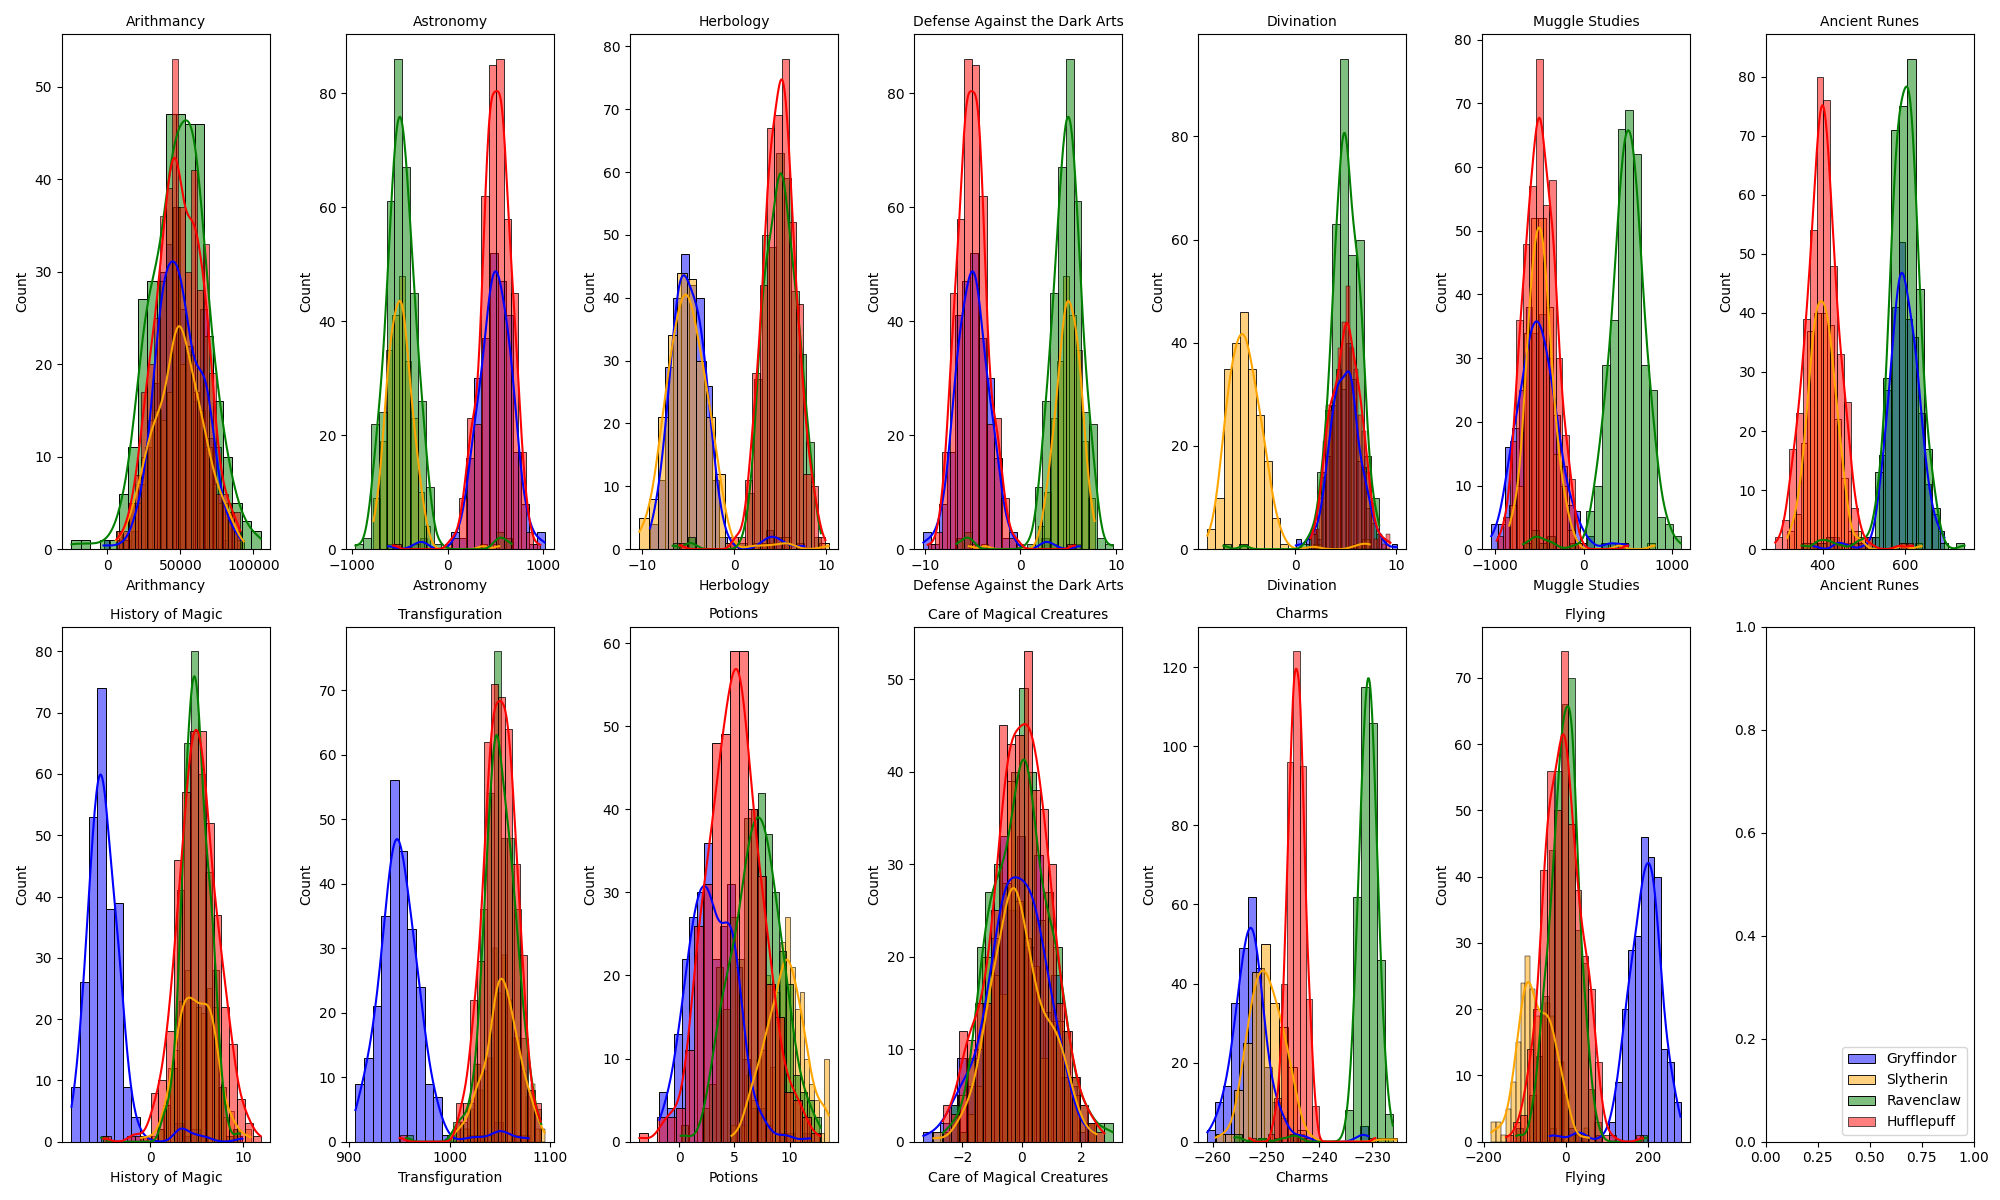
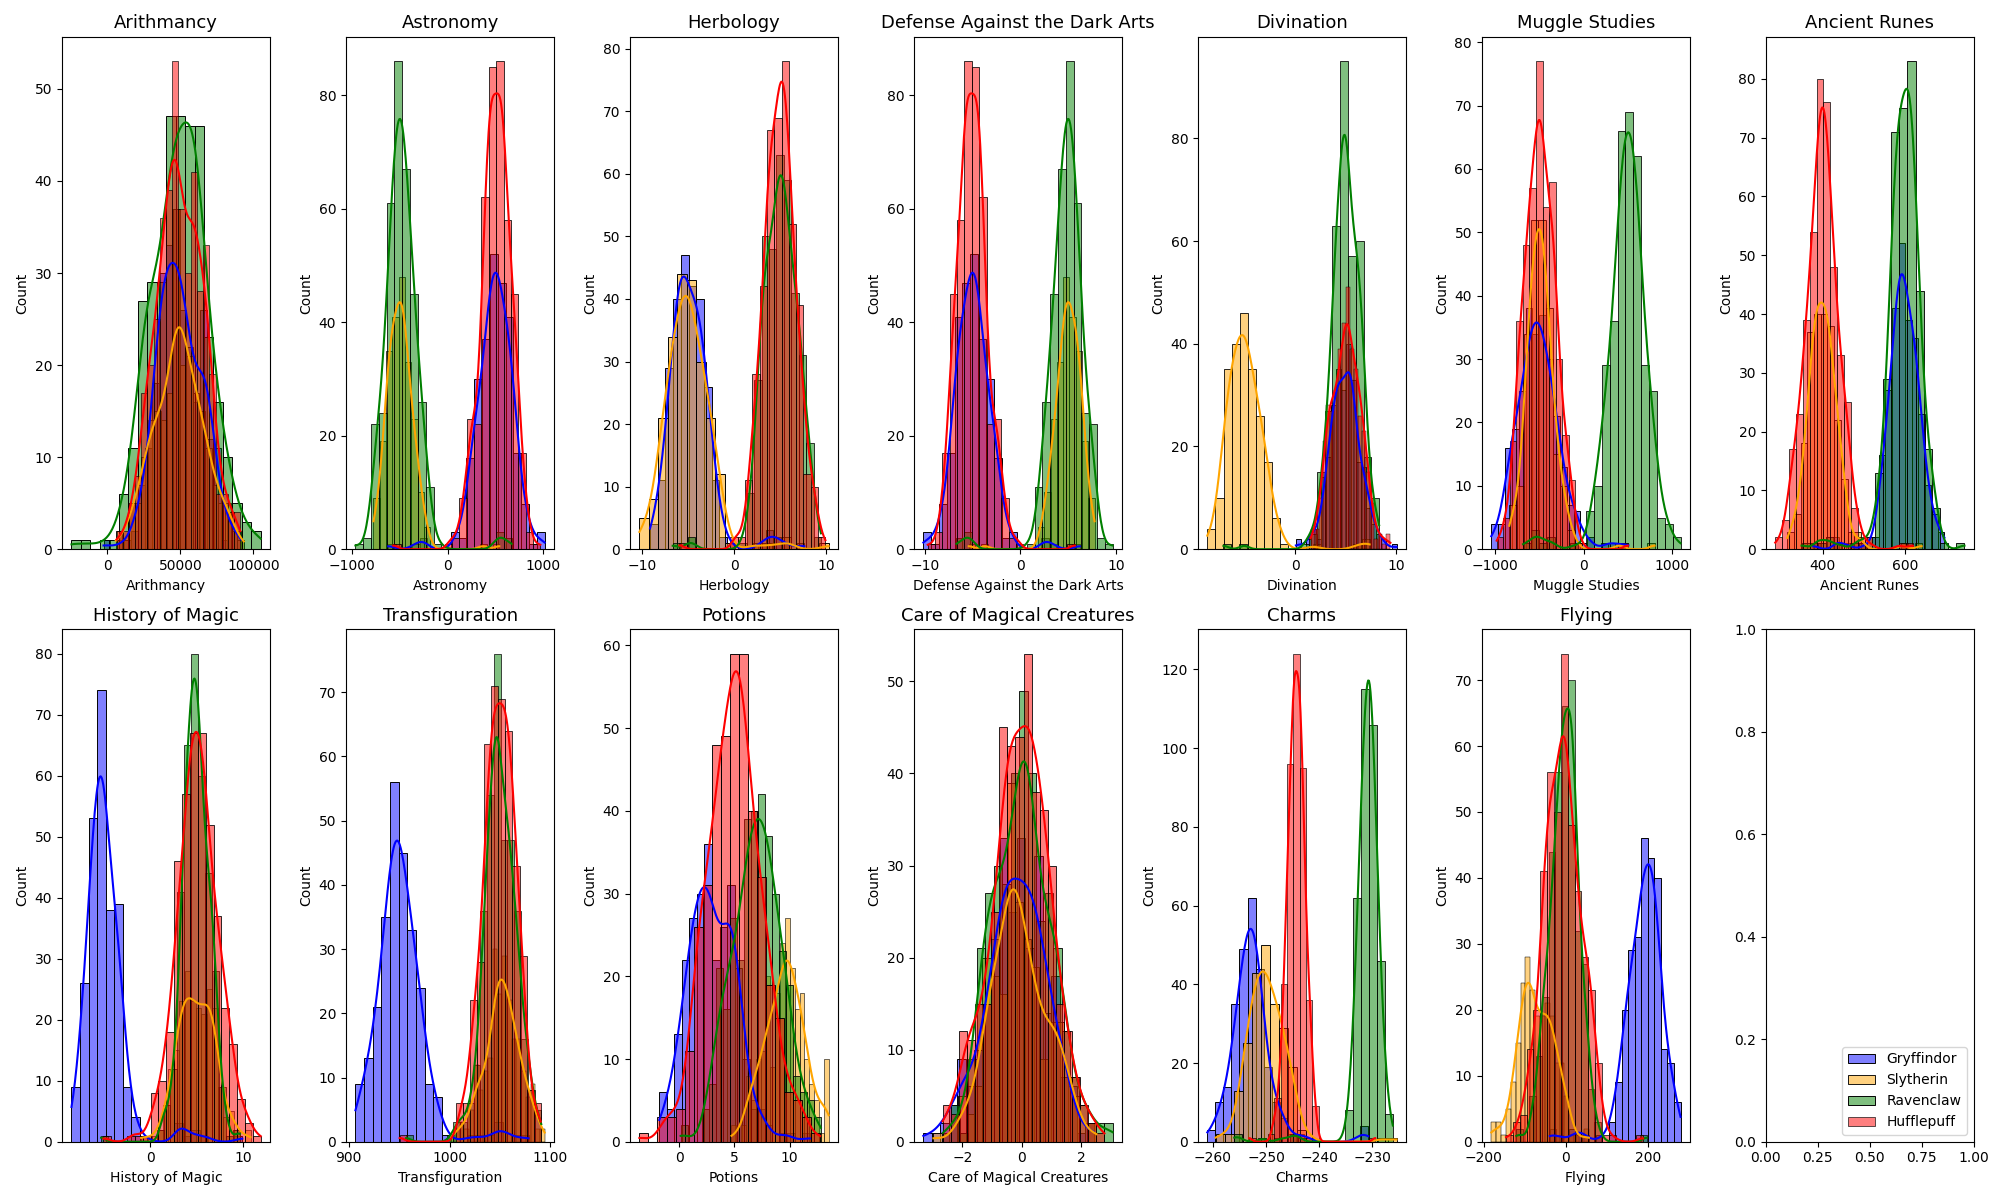
cleaning & improving files

diff --git a/src/utils/describe.py b/src/utils/describe.py
@@ -23,7 +23,6 @@ def data_stats(feature):
         '75%': percentile(feature, 0.75),
         'max': percentile(feature, 1),
         '-----': 0,
-        'mode': mode(feature),
         'freq': frequency(feature)
     }
 
@@ -47,7 +46,7 @@ def display(data):
 
         # Display statistics
         for legend in ['count', 'mean', 'std', 'min',
-                       '25%', '50%', '75%', 'max', '-----', 'mode', 'freq']:
+                       '25%', '50%', '75%', 'max', '-----', 'freq']:
             line = f'{legend:6s}'
             if legend == '-----':  # Check if legend is '----'
                 line += '-' * 112  # Print dashes for each column
@@ -70,6 +69,8 @@ def ft_describe(filename):
     try:
         # Read the CSV file into a DataFrame
         df = pd.read_csv(filename)
+        print(f'🟢 File "{filename}" loaded successfully\n')
+        print('🔍 Analyzing the dataset...\n')
         df.info()
         input('\nPress Enter to continue...\n')
 
@@ -103,6 +104,7 @@ def ft_describe(filename):
                 if df[column].dtype != 'object':
                     median = percentile(df[column], 0.50)
                     df[column] = df[column].fillna(median)
+            print('\n🔄 Null values replaced with median\n')
             df.info()
             # Export the modified DataFrame to a new CSV file
             new_filename = filename.replace('.csv', '_clean.csv')
@@ -137,7 +139,7 @@ def main():
         exit(1)
 
     # Describe the CSV file
-    describe(file_path)
+    ft_describe(file_path)
 
 
 if __name__ == '__main__':

diff --git a/src/utils/data_analyzer.py b/src/utils/data_analyzer.py
@@ -50,6 +50,27 @@ def percentile(data, percentile):
         return percentile
 
 
+def frequency(data):
+    """
+    Calculate the maximum frequency of any value in a list.
+    """
+    # Create a dictionary to count the frequency of each element
+    frequencies = {}
+    for item in data:
+        if item in frequencies:
+            frequencies[item] += 1
+        else:
+            frequencies[item] = 1
+
+    # Find the maximum frequency
+    max_frequency = 0
+    for frequency in frequencies.values():
+        if frequency > max_frequency:
+            max_frequency = frequency
+
+    return max_frequency
+
+
 def mode(data):
     """
     Calculate the mode of a list of values.
@@ -73,22 +94,11 @@ def mode(data):
     return mode
 
 
-def frequency(data):
+def top(column):
     """
-    Calculate the maximum frequency of any value in a list.
+    Calculate the most common value in a column of a DataFrame.
     """
-    # Create a dictionary to count the frequency of each element
-    frequencies = {}
-    for item in data:
-        if item in frequencies:
-            frequencies[item] += 1
-        else:
-            frequencies[item] = 1
+    value_counts = column.value_counts()
+    top_value = value_counts.idxmax()
 
-    # Find the maximum frequency
-    max_frequency = 0
-    for frequency in frequencies.values():
-        if frequency > max_frequency:
-            max_frequency = frequency
-
-    return max_frequency
+    return top_value

diff --git a/src/visual/histogram.py b/src/visual/histogram.py
@@ -57,7 +57,7 @@ def histogram(filename):
     # Draw histogram and KDE for each category
     for ax, class_ in zip(axes.flatten(), categories):
         if class_ in df.columns and not df[class_].isnull().all():
-            ax.set_title(class_, fontsize=10)
+            ax.set_title(class_, fontsize=13)
 
             # Draw histogram and KDE for each house
             for house, color in zip(houses, colors):
